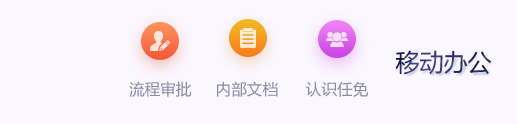
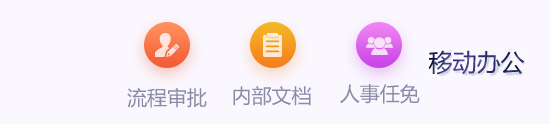
fix: update card and words of '八宫格'

diff --git a/mobile/styles/index.css b/mobile/styles/index.css
@@ -149,15 +149,15 @@ body {
 }
 .enterprise .numCardContainer .mobileFrame_1 {
   margin: 0 auto;
-  width: 30%;
+  width: 35%;
   display: block;
   margin-bottom: 21px;
   margin-top: 28.5px;
 }
 .enterprise .numCardContainer .numCard {
-  width: 60%;
+  width: 70%;
   position: absolute;
-  top: 200px;
+  top: 225px;
   left: 50%;
   transform: translateX(-50%);
 }
@@ -175,15 +175,15 @@ body {
 }
 .enterprise .officialWebContainer .mobileFrame_1 {
   margin: 0 auto;
-  width: 30%;
+  width: 35%;
   display: block;
   margin-bottom: 21px;
   margin-top: 57px;
 }
 .enterprise .officialWebContainer .numCard {
-  width: 60%;
+  width: 70%;
   position: absolute;
-  top: 168px;
+  top: 193px;
   left: 50%;
   transform: translateX(-50%);
 }
@@ -205,15 +205,15 @@ body {
 }
 .enterprise .cusManageContainer .mobileFrame_1 {
   margin: 0 auto;
-  width: 30%;
+  width: 35%;
   display: block;
   margin-bottom: 21px;
   margin-top: 57px;
 }
 .enterprise .cusManageContainer .numCard {
-  width: 60%;
+  width: 70%;
   position: absolute;
-  top: 168px;
+  top: 193px;
   left: 50%;
   transform: translateX(-50%);
 }
@@ -231,15 +231,15 @@ body {
 }
 .enterprise .mobOfficingContainer .mobileFrame_1 {
   margin: 0 auto;
-  width: 30%;
+  width: 35%;
   display: block;
   margin-bottom: 21px;
   margin-top: 57px;
 }
 .enterprise .mobOfficingContainer .numCard {
-  width: 60%;
+  width: 70%;
   position: absolute;
-  top: 168px;
+  top: 193px;
   left: 50%;
   transform: translateX(-50%);
 }

diff --git a/mobile/index.html b/mobile/index.html
@@ -103,7 +103,10 @@
         <div class="butContainer">
           <ul class="clearfix">
             <li>
-              <a href="#">自主电商</a>
+              <a href="#">自助电商</a>
+            </li>
+            <li>
+              <a href="#">全员营销</a>
             </li>
             <li>
               <a href="#">社会营销</a>
@@ -112,16 +115,13 @@
               <a href="#">订单管理</a>
             </li>
             <li>
-              <a href="#">定位上下游</a>
+              <a href="#">资金管理</a>
+            </li>
+            <li>
+              <a href="#">定制上下游</a>
             </li>
             <li>
               <a href="#">团队协作</a>
-            </li>
-            <li>
-              <a href="#">流程审核</a>
-            </li>
-            <li>
-              <a href="#">即时通讯</a>
             </li>
             <li>
               <a href="#">更多...</a>
